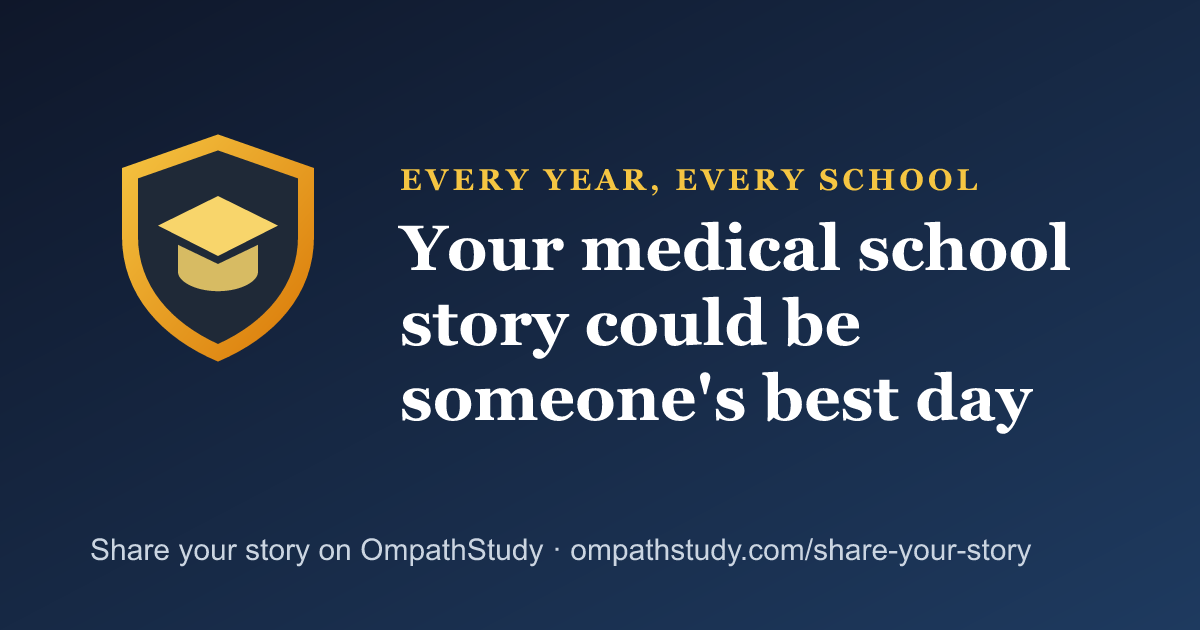
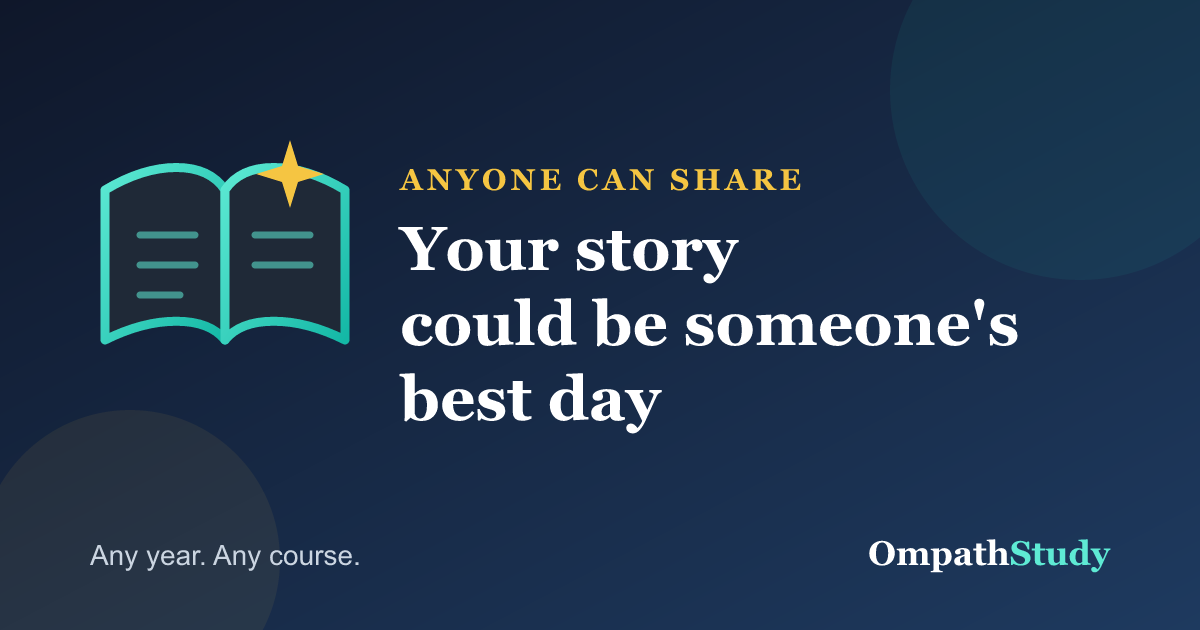
Share previews: per-year and course previews for WhatsApp, image size tags, new share pictures, story descriptions without the byline

diff --git a/api/og-meta.ts b/api/og-meta.ts
@@ -72,13 +72,13 @@ const STATIC_PAGE_META: Record<string, { title: string; description: string; lin
   "/finalists": {
     title: "Finalists: tell the MKU students coming behind you | Ompath Study",
     description: "Finalists and graduates of Mount Kenya University and other Kenyan medical schools: tell the students coming behind you what the wards, exams and years were really like.",
-    image: "https://www.ompathstudy.com/og/share-story.png",
+    image: "https://www.ompathstudy.com/og/share-story.png?v=2",
     links: ["/share-your-story", "/stories", "/blog", "/papers", "/mcqs"],
   },
   "/share-your-story": {
     title: "Share your medical school story: every student has one | Ompath Study",
     description: "First year to final year, Mount Kenya University and every other medical school: write what it has really been like and help the students beside you and behind you. Your name can stay private.",
-    image: "https://www.ompathstudy.com/og/share-story-all.png",
+    image: "https://www.ompathstudy.com/og/share-story-all.png?v=2",
     links: ["/stories", "/blog", "/papers", "/mcqs", "/exams"],
   },
   "/stories": {
@@ -87,6 +87,22 @@ const STATIC_PAGE_META: Record<string, { title: string; description: string; lin
     image: "https://www.ompathstudy.com/og/stories.png?v=3",
     links: ["/", "/blog", "/mcqs", "/flashcards", "/exams"],
   },
+};
+
+// share-your-story pages made for one year or one group, so the link preview in WhatsApp says who it is for
+for (const y of [1, 2, 3, 4, 5, 6]) {
+  STATIC_PAGE_META[`/share-your-story/year-${y}`] = {
+    title: `Year ${y} students: share your story | Ompath Study`,
+    description: `Year ${y} at medical school: write what it is really like and help the students beside you and behind you. Your name can stay private.`,
+    image: "https://www.ompathstudy.com/og/share-story-all.png?v=2",
+    links: ["/share-your-story", "/finalists", "/stories", "/blog"],
+  };
+}
+STATIC_PAGE_META["/share-your-story/other"] = {
+  title: "Share your story: nursing, clinical medicine, pharmacy, dentistry and beyond | Ompath Study",
+  description: "You do not have to be an MBChB student. Nurses, clinical officers, pharmacists, dental and lab students, lecturers and parents: write your story and let it help someone.",
+  image: "https://www.ompathstudy.com/og/share-story-all.png?v=2",
+  links: ["/share-your-story", "/finalists", "/stories"],
 };
 
 function isCrawler(userAgent: string | null): boolean {
@@ -692,6 +708,9 @@ function buildHtml(opts: {
     <meta property="og:type" content="${type}" />
     <meta property="og:url" content="${url}" />
     <meta property="og:image" content="${img}" />
+    <meta property="og:image:width" content="1200" />
+    <meta property="og:image:height" content="630" />
+    <meta property="og:image:alt" content="${title}" />
     <meta property="og:site_name" content="OmpathStudy" />
     <meta name="twitter:card" content="summary_large_image" />
     <meta name="twitter:title" content="${title}" />
@@ -1065,7 +1084,7 @@ ${explanationLine}
       }
       title = `${story.title} | Story | Ompath Study`;
       description =
-        to160(story.content || "") ||
+        to160(String(story.content || "").replace(/^\s*<p><em>By [^<]*<\/em><\/p>/i, "")) ||
         "Read a medical story on OmpathStudy — built for medical and health students to learn, reflect, and grow.";
       ogImage = story.cover_image_url || OG_FALLBACK_IMAGE;
       keywords = `OmpathStudy, medical stories, reflective practice, ${story.category || ""}, medical students Kenya`;

diff --git a/src/pages/ShareYourStory.tsx b/src/pages/ShareYourStory.tsx
@@ -15,7 +15,7 @@ type Page = { path: string; image: string; title: string; description: string; e
 
 function pageFor(who: Who): Page {
   if (who === "finalist") return {
-    path: "/finalists", image: "/og/share-story.png",
+    path: "/finalists", image: "/og/share-story.png?v=2",
     title: "Finalists: tell the MKU students coming behind you | OmpathStudy",
     description: "Finalists and graduates of Mount Kenya University and other Kenyan medical schools: tell the students coming behind you what the wards, exams and years were really like.",
     eyebrow: "Finalists and graduates", heading: "Talk to the students coming behind you",
@@ -25,7 +25,7 @@ function pageFor(who: Who): Page {
     share: "Pass it on to other finalists", wa: "Finalists, tell the juniors what med school was really like. Write your story here:",
   };
   if (who === "other") return {
-    path: "/share-your-story/other", image: "/og/share-story-all.png",
+    path: "/share-your-story/other", image: "/og/share-story-all.png?v=2",
     title: "Share your story: nursing, clinical medicine, pharmacy, dentistry and beyond | OmpathStudy",
     description: "You do not have to be an MBChB student. Nurses, clinical officers, pharmacists, dental and lab students, lecturers and parents: write your story and let it help someone.",
     eyebrow: "Everyone is welcome", heading: "You do not have to study medicine to have a story",
@@ -38,7 +38,7 @@ function pageFor(who: Who): Page {
   if (m) {
     const y = Number(m[1]);
     return {
-      path: `/share-your-story/year-${y}`, image: "/og/share-story-all.png",
+      path: `/share-your-story/year-${y}`, image: "/og/share-story-all.png?v=2",
       title: `Year ${y} students: share your story | OmpathStudy`,
       description: `Year ${y} at medical school: write what it is really like and help the students beside you and behind you. Your name can stay private.`,
       eyebrow: `Year ${y}`, heading: `Year ${y}: what is it really like?`,
@@ -51,7 +51,7 @@ function pageFor(who: Who): Page {
     };
   }
   return {
-    path: "/share-your-story", image: "/og/share-story-all.png",
+    path: "/share-your-story", image: "/og/share-story-all.png?v=2",
     title: "Share your story: anyone can, from any year or any course | OmpathStudy",
     description: "Medical students from first year to finalists, and anyone in nursing, clinical medicine, pharmacy, dentistry or health: write what it has really been like and help others. Your name can stay private.",
     eyebrow: "Anyone can share", heading: "Your story could be someone's best day",
